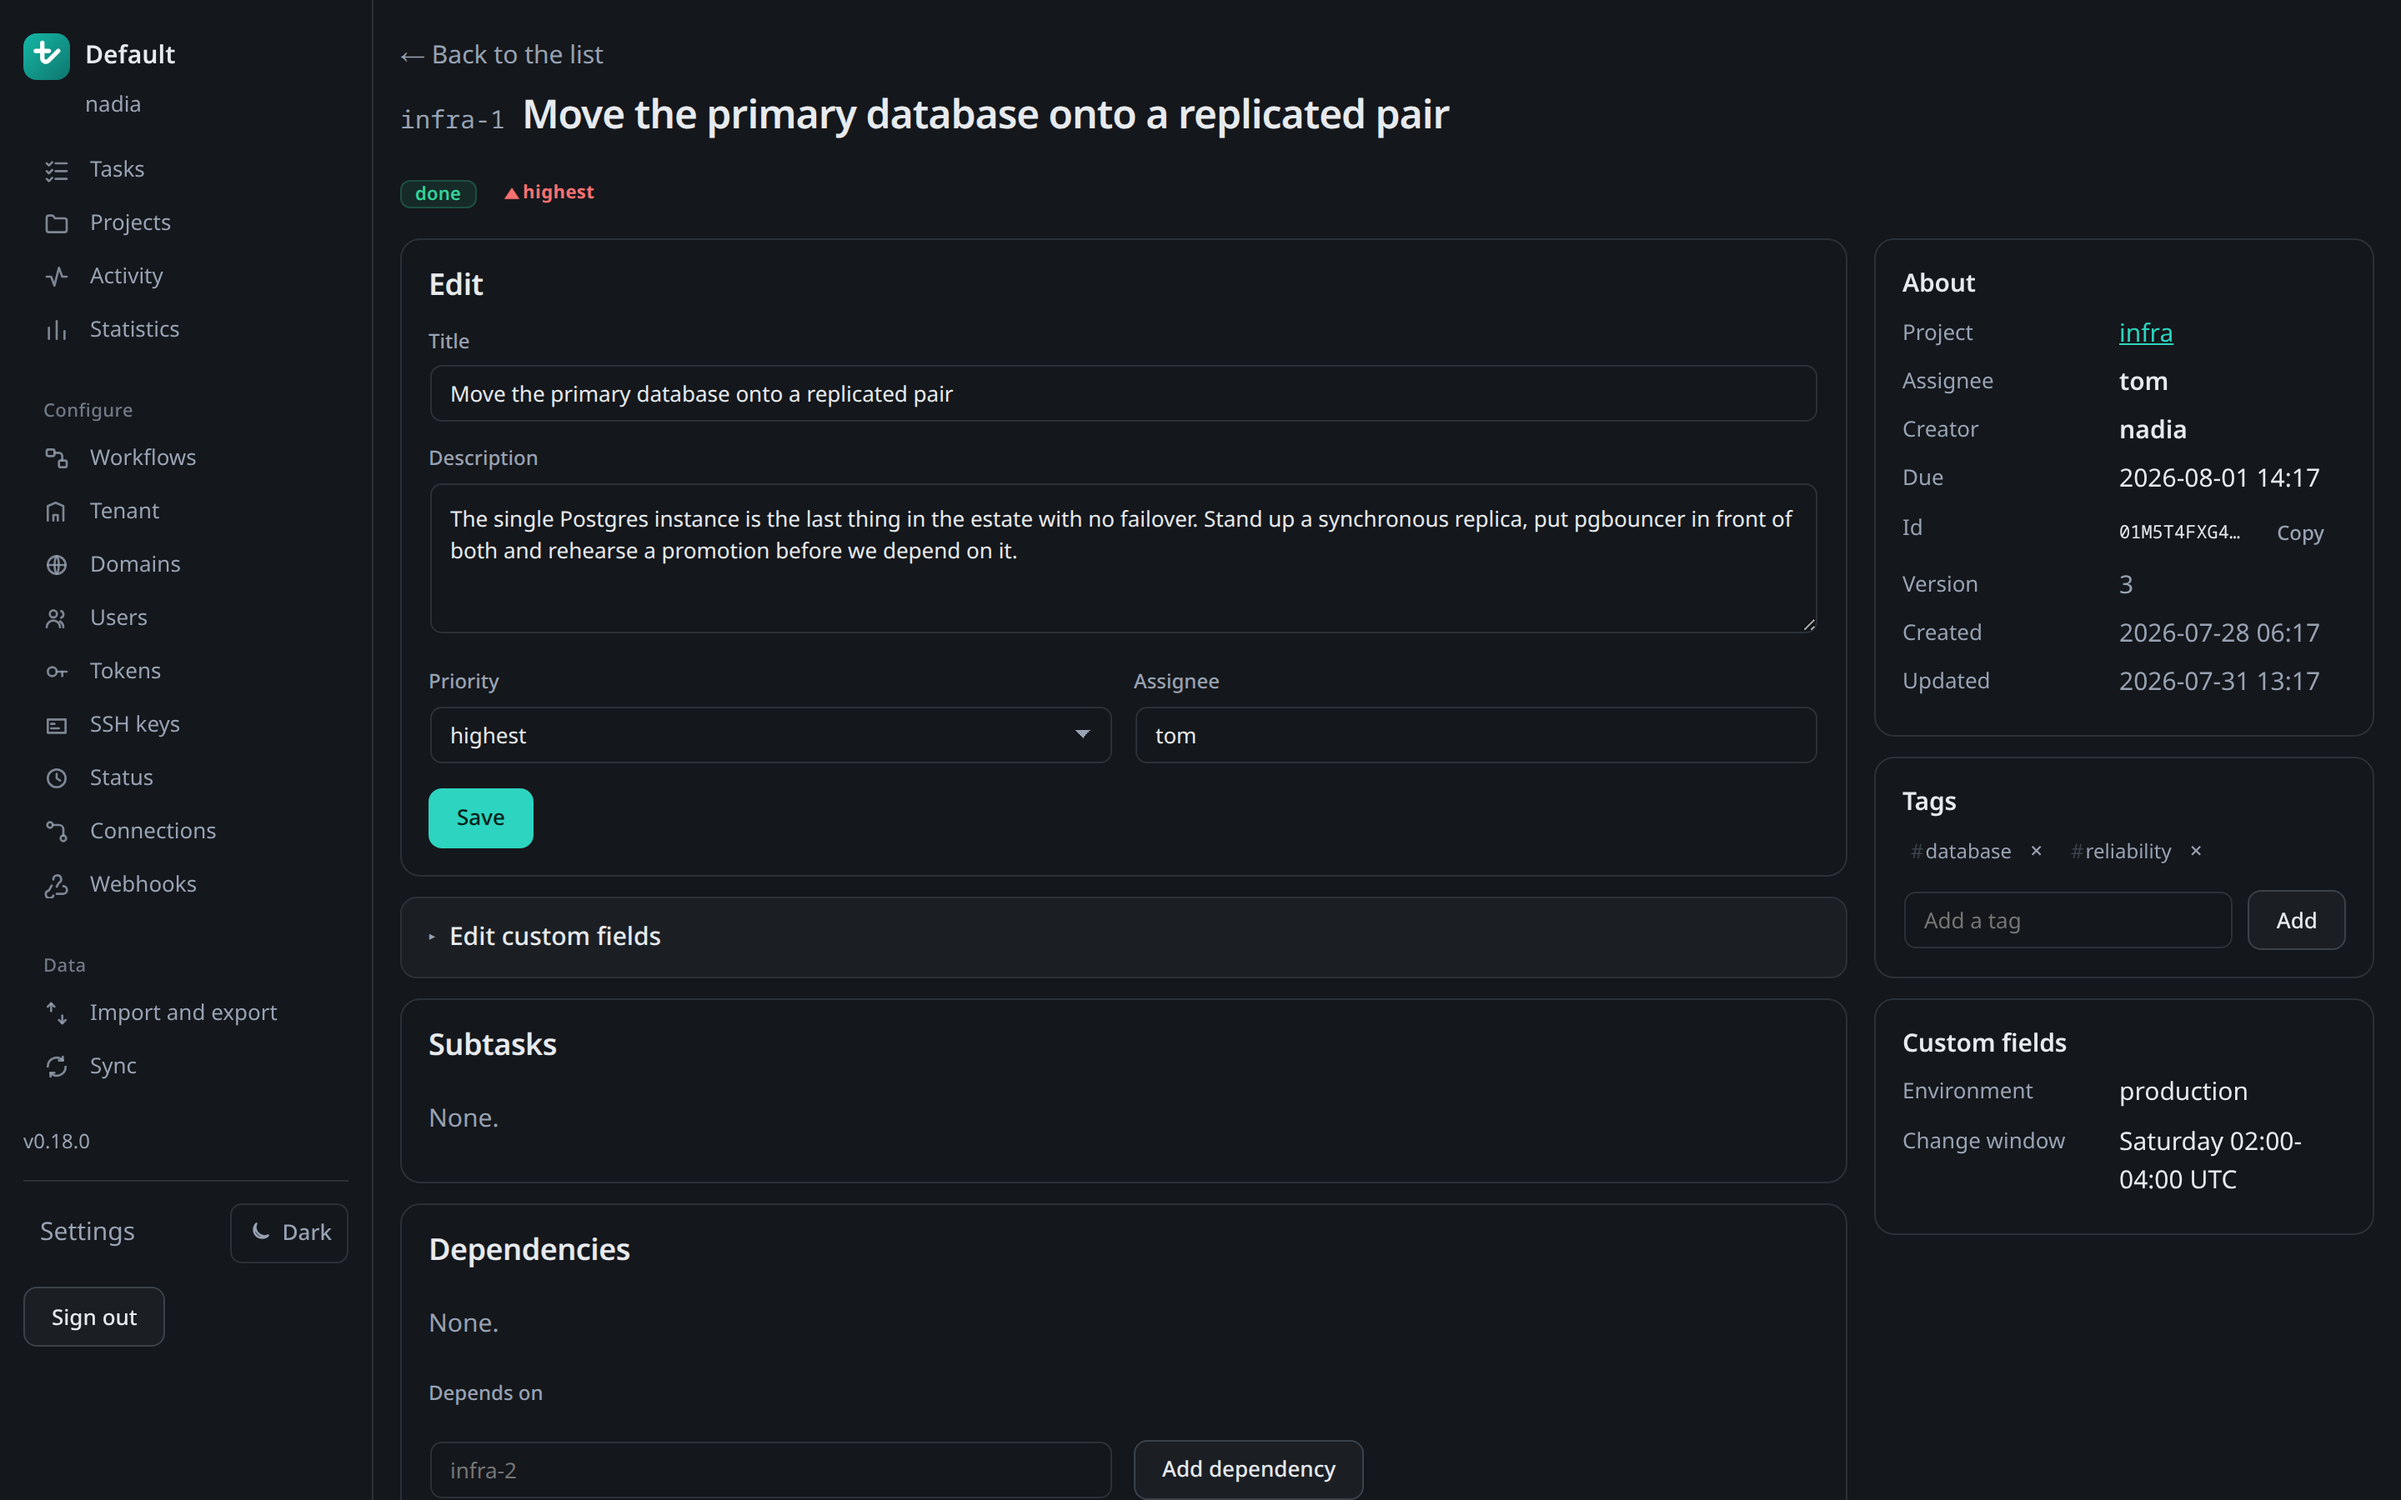
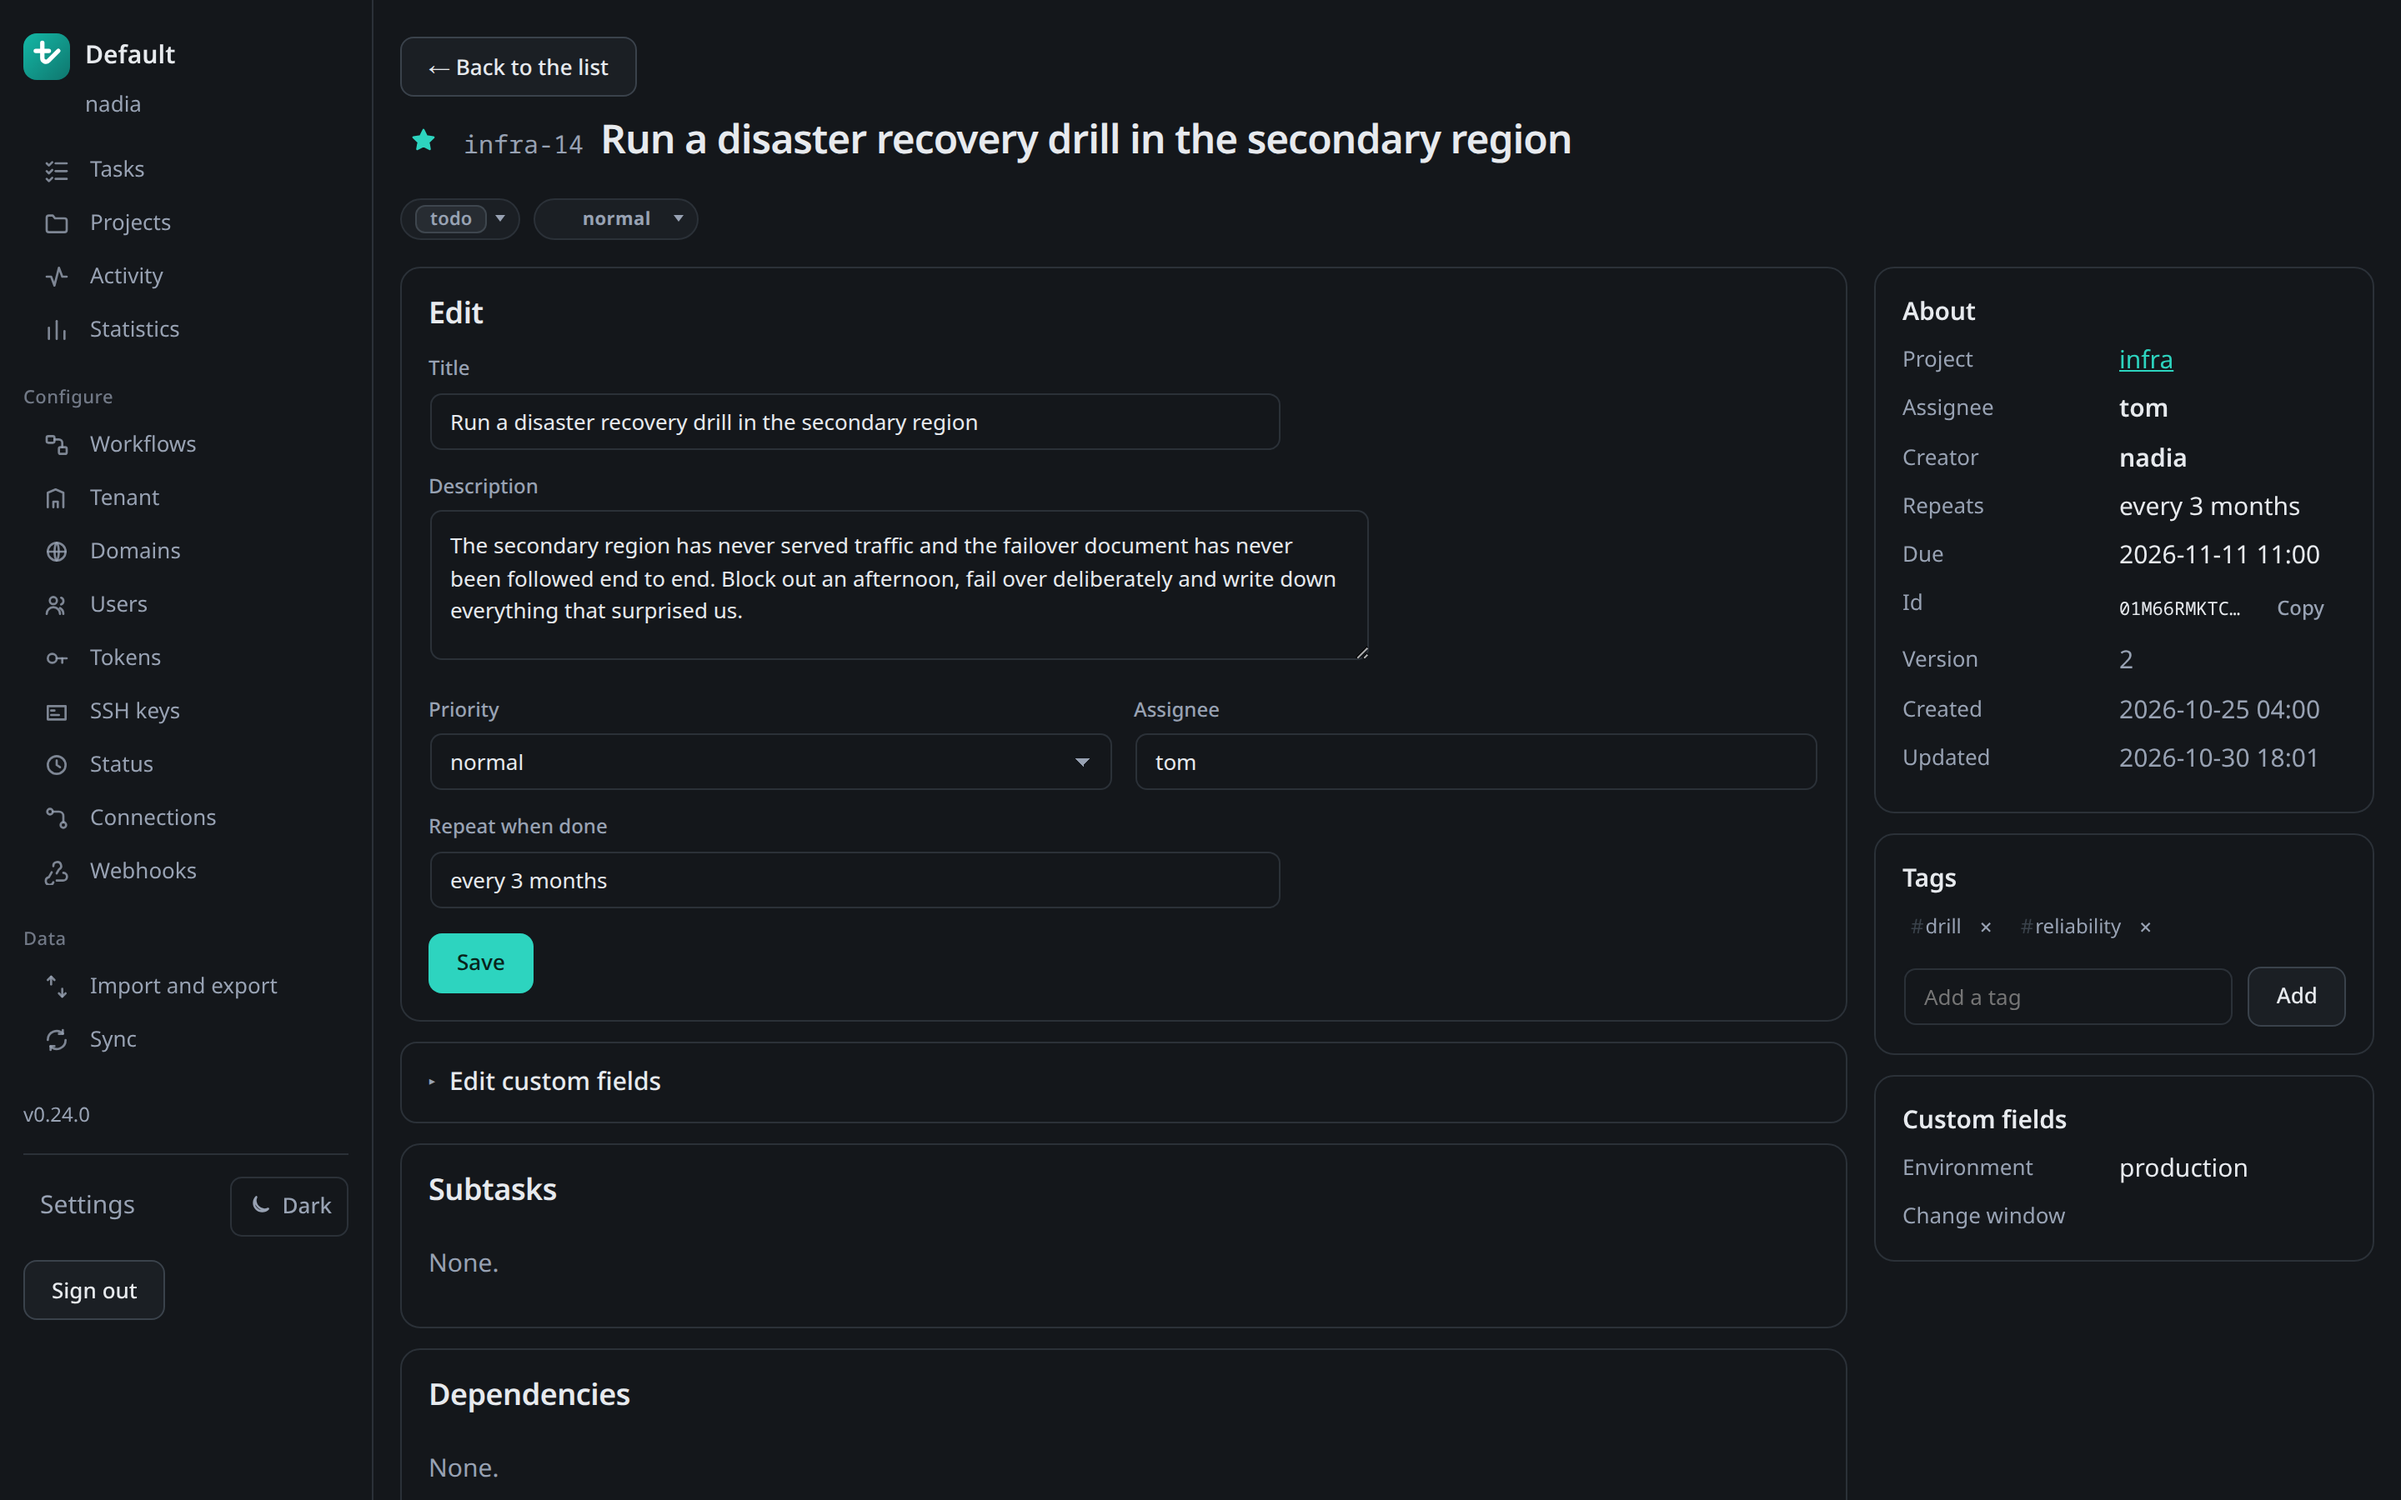
docs(screenshots): show lanes, stars and repeating tasks
Retake the task list, task detail, CLI listing and TUI board so the v0.24.0
features are actually visible, and add a lanes shot. The README now puts the
lanes view beside the task detail.

diff --git a/screenshots/README.md b/screenshots/README.md
@@ -3,17 +3,29 @@
 Captured against a seeded demo database on the commit that added them.
 
 The five browser images were retaken at v0.18.0, which rebuilt the interface.
-The three terminal images predate that and are unaffected by it: the CLI and
-the TUI did not change.
+
+v0.24.0 added lanes, tasks that repeat and personal stars, which show up on
+four of them, so those were retaken: the task list (stars, starred rows first,
+the repeat marker), the task detail (the star, the Repeats row and the Repeat
+when done field), the CLI listing (`*` before starred refs and the REPEAT
+column) and the TUI board (the same two markers). The lanes image is new. The
+rest are still the v0.18.0 captures, because nothing on them changed.
+
+The seed for those was `tix demo seed` plus three repeat rules (`infra-14`,
+`ops-9`, `docs-9`) and three stars (`ops-7`, `infra-11`, `infra-14`), set from
+the command line for the terminal images and from the browser for the browser
+ones: a star belongs to whoever set it, so the CLI's local actor and nadia in
+the browser each need their own.
 
 | File | Surface |
 | --- | --- |
-| [cli-task-list.png](cli-task-list.png) | `tix task ls` |
+| [cli-task-list.png](cli-task-list.png) | `tix task ls -s todo,doing,blocked --limit 20` |
 | [cli-task-show.png](cli-task-show.png) | `tix task show -o yaml` |
 | [cli-agent.png](cli-agent.png) | `tix claim next -o json` and NDJSON piped through `jq`, the agent path |
 | [tui-board.png](tui-board.png) | `tix tui`, the workflow board |
 | [web-task-list.png](web-task-list.png) | Browser task list |
 | [web-task-detail.png](web-task-detail.png) | Browser task detail |
+| [web-lanes.png](web-lanes.png) | Browser task screen as lanes, one per project, filtered to open work |
 | [web-bundles-dark.png](web-bundles-dark.png) | Import and export, the snapshot tab |
 | [web-tenant-shape.png](web-tenant-shape.png) | The tenant screen, showing what sits under what |
 | [web-stats.png](web-stats.png) | Statistics: throughput, lead time and what is waiting longest |
@@ -52,7 +64,16 @@ Two more things learned the second time round.
 `termshot --raw-read` takes a file of raw terminal output instead of running
 the command itself, which is the easier way past the panic: capture the output
 under `script`, strip the queries and the replies from the file, and hand the
-cleaned file to `termshot`. Nothing then races the pty.
+cleaned file to `termshot`. Nothing then races the pty. `script` also writes
+its own "Script started" and "Script done" lines into that file, and those have
+to go too or they become the first and last rows of the image.
+
+The lanes image is filtered to open work
+(`-status:done -status:cancelled -project:web -project:docs`). Lanes are exempt
+from the list's open-work default, so the first page of the seed is mostly
+finished tasks and two of the six lanes read "Everything here is finished";
+dropping two projects also keeps four lanes inside the 1440px viewport instead
+of a fifth cut off at the edge.
 
 A `capture-pane` frame is as tall as the pane, not as tall as the interface, so
 the blank rows below the board arrive with it and become empty window inside

diff --git a/README.md b/README.md
@@ -120,7 +120,9 @@ The same store, three ways in. More in [screenshots/](screenshots/README.md).
 | --- | --- |
 | [![Task list on the command line](screenshots/cli-task-list.png)](screenshots/cli-task-list.png) | [![Workflow board in the terminal](screenshots/tui-board.png)](screenshots/tui-board.png) |
 
-[![Task detail in the browser](screenshots/web-task-detail.png)](screenshots/web-task-detail.png)
+| Browser, one lane per project | Browser, a task |
+| --- | --- |
+| [![Lanes view in the browser](screenshots/web-lanes.png)](screenshots/web-lanes.png) | [![Task detail in the browser](screenshots/web-task-detail.png)](screenshots/web-task-detail.png) |
 
 ## Quick start
 
